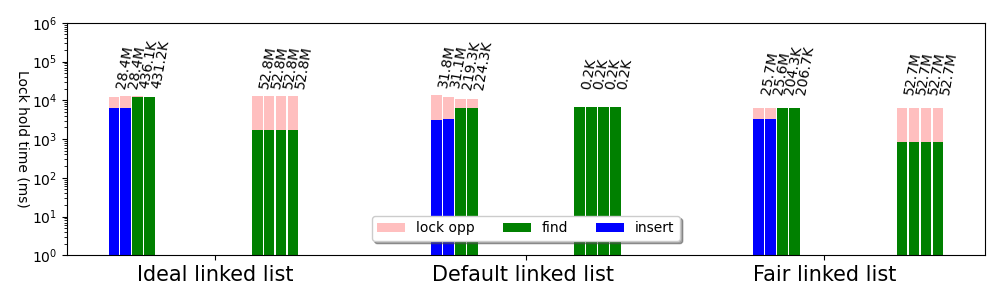
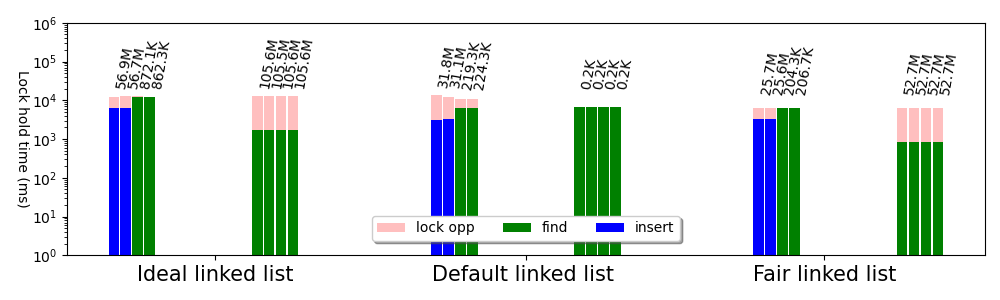
updated graphs

Changed region(s): [[0.093, 0.12, 0.186, 0.3], [0.248, 0.12, 0.31, 0.3]]

diff --git a/generate_performance_graph.py b/generate_performance_graph.py
@@ -141,82 +141,82 @@ o_max = [o_max_4, o_max_8, o_max_10]
 print(o_diff)
 
 
-#ax.axhspan(max_4, min_4, facecolor='b', alpha=0.5)
-#ax.axhspan(min_8, max_8, facecolor='r', alpha=0.5)
-#ax.axhspan(min_10, max_10, facecolor='g', alpha=0.5)
-colours = ['b', 'r', 'g']
-count = 0
-i_max_4 = 0
-i_min_4 = 10000000000000
-i_max_8 = 0
-i_min_8 = 10000000000000
-i_max_10 = 0
-i_min_10 = 10000000000000
-path = "./tables/ns_c_lock_fair_list_tables/"  #FILL THIS IN HERE
-fileCount = 0;
-filename = "performance.csv"
-with open(os.path.join(path, filename), 'r') as file:
-    reader = csv.reader(file)
-    for row in reader:
-        applications = int(row[0])
-        #print(row)
-        #print(row[0])
-        if (applications != 2):
-            throughput = []
-            #print(applications)
-            for i in range(applications):
-                x_val = []
-                y_val = []
-                ratio_max = 0
-                ratio_min = 0
-                #print(row[i+1])
-                values = row[i + 1].split('],')
-#                for i in values:
-                val = values[0].split(',')
-                #print(val)
-                for j in val:
-                    res = j.replace("]", "")
-                    res2 = res.replace("[", "")
-                    y_val.append(int(res2))
-                x_val = [i for i in range(len(val))]
-                #print(x_val)
-                #print(y_val)
-                if (applications == 4):
-                    v_colour = 'b'
-                    if (max(y_val) > i_max_4):
-                        i_max_4 = max(y_val)
-                    if (min(y_val) < i_min_4):
-                        i_min_4 = min(y_val)
-                elif (applications == 8):
-                    v_colour = 'r'
-                    if (max(y_val) > i_max_8):
-                        i_max_8 = max(y_val)
-                    if (min(y_val) < i_min_8):
-                        i_min_8 = min(y_val)
-                elif(applications == 10):
-                    v_colour = 'g'
-                    if (max(y_val) > i_max_10):
-                        i_max_10 = max(y_val)
-                        #print(i_max_10)
-                    if (min(y_val) < i_min_10):
-                        i_min_10 = min(y_val)
-                        #print(i_min_10)
-                count = len(x_val)
-                denom = 4 * applications
-                #ax.plot(x_val, y_val, color=v_colour, label=str(applications))
+# #ax.axhspan(max_4, min_4, facecolor='b', alpha=0.5)
+# #ax.axhspan(min_8, max_8, facecolor='r', alpha=0.5)
+# #ax.axhspan(min_10, max_10, facecolor='g', alpha=0.5)
+# colours = ['b', 'r', 'g']
+# count = 0
+# i_max_4 = 0
+# i_min_4 = 10000000000000
+# i_max_8 = 0
+# i_min_8 = 10000000000000
+# i_max_10 = 0
+# i_min_10 = 10000000000000
+# path = "./tables/ns_c_lock_fair_list_tables/"  #FILL THIS IN HERE
+# fileCount = 0;
+# filename = "performance.csv"
+# with open(os.path.join(path, filename), 'r') as file:
+#     reader = csv.reader(file)
+#     for row in reader:
+#         applications = int(row[0])
+#         #print(row)
+#         #print(row[0])
+#         if (applications != 2):
+#             throughput = []
+#             #print(applications)
+#             for i in range(applications):
+#                 x_val = []
+#                 y_val = []
+#                 ratio_max = 0
+#                 ratio_min = 0
+#                 #print(row[i+1])
+#                 values = row[i + 1].split('],')
+# #                for i in values:
+#                 val = values[0].split(',')
+#                 #print(val)
+#                 for j in val:
+#                     res = j.replace("]", "")
+#                     res2 = res.replace("[", "")
+#                     y_val.append(int(res2))
+#                 x_val = [i for i in range(len(val))]
+#                 #print(x_val)
+#                 #print(y_val)
+#                 if (applications == 4):
+#                     v_colour = 'b'
+#                     if (max(y_val) > i_max_4):
+#                         i_max_4 = max(y_val)
+#                     if (min(y_val) < i_min_4):
+#                         i_min_4 = min(y_val)
+#                 elif (applications == 8):
+#                     v_colour = 'r'
+#                     if (max(y_val) > i_max_8):
+#                         i_max_8 = max(y_val)
+#                     if (min(y_val) < i_min_8):
+#                         i_min_8 = min(y_val)
+#                 elif(applications == 10):
+#                     v_colour = 'g'
+#                     if (max(y_val) > i_max_10):
+#                         i_max_10 = max(y_val)
+#                         #print(i_max_10)
+#                     if (min(y_val) < i_min_10):
+#                         i_min_10 = min(y_val)
+#                         #print(i_min_10)
+#                 count = len(x_val)
+#                 denom = 4 * applications
+#                 #ax.plot(x_val, y_val, color=v_colour, label=str(applications))
 
-i_difference_4 = i_max_4 / i_min_4
-i_diff_8 = i_max_8 / i_min_8
-i_diff_10 = i_max_10 / i_min_10
-#print(i_max_8)
-#print(i_min_8)
-i_diff = [i_difference_4, i_diff_8, i_diff_10]
-i_max = [i_max_4, i_max_8, i_max_10]
-print(i_diff)
+# i_difference_4 = i_max_4 / i_min_4
+# i_diff_8 = i_max_8 / i_min_8
+# i_diff_10 = i_max_10 / i_min_10
+# #print(i_max_8)
+# #print(i_min_8)
+# i_diff = [i_difference_4, i_diff_8, i_diff_10]
+# i_max = [i_max_4, i_max_8, i_max_10]
+# print(i_diff)
 
 print([min_4, min_8, min_10])
 print([o_min_4, o_min_8, o_min_10])
-print([i_min_4, i_min_8, i_min_10])
+#print([i_min_4, i_min_8, i_min_10])
 
 ax.set_ylabel("Max-min throughput ratio", fontsize=15)
 ax.set_xlabel("Number of applications running", fontsize=15)

diff --git a/generate_dynamic_graph.py b/generate_dynamic_graph.py
@@ -5,15 +5,16 @@ import os
 import csv
 import sys
 
-fig, axs = plt.subplots(3, figsize=(12, 6))
+fig, axs = plt.subplots(3, figsize=(16, 12))
 
 path = "./tables/default_fair_list_tables/"  #FILL THIS IN HERE
 fileCount = 0;
 for filename in os.listdir(path):
     #print(filename)
     with open(os.path.join(path, filename), 'r') as file:
-        if (filename == "dynamic_applications.csv"):
+        if (filename == "new_dynamic_applications.csv"):
             applications = 8
+
             count = -1
             colours = ['r', 'g', 'b', 'k', 'r', 'g', 'b', 'k']
             ratio = [25, 50, 75, 100, 25, 50, 75, 100]
@@ -29,23 +30,20 @@ for filename in os.listdir(path):
                 else:
                     count = count + 1
                     type = row[int(0)]
-                    for i in range(16):
-                        stage_1_throughput.append(int(row[int(i + 1)]))
+                    apps = [[0, int(row[1]), int(row[5])], [0, int(row[2]), int(row[6])], [0, int(row[3]), int(row[7]), int(row[15])], [0, int(row[4]), int(row[8]), int(row[16])], [0, int(row[9])], [0, int(row[10])], [0, int(row[11])], [0, int(row[12])]]
                     time_1 = [0, 32, 64, 86]
                     time_2 = [32, 64]
                     time_3 = [0, 32, 64]
+                    
                     for j in range(2):
-                        x_val = [app_thoughput[j], app_thoughput[j], app_thoughput[j]]
-                        axs[count].plot(time_3, x_val, label = str(ratio[j]), color=colours[j])
-
+                        print(apps[j])
+                        axs[count].plot(time_3, apps[j], label = str(ratio[j]), color=colours[j])
 
                     for j in [2, 3]:
-                        x_val = [app_thoughput[j], app_thoughput[j], app_thoughput[j], app_thoughput[j]]
-                        axs[count].plot(time_1, x_val, label = str(ratio[j]), color=colours[j])
+                        axs[count].plot(time_1, apps[j], label = str(ratio[j]), color=colours[j])
 
                     for j in [4, 5, 6, 7]:
-                        x_val = [app_thoughput[j], app_thoughput[j]]
-                        axs[count].plot(time_2, x_val, label = str(ratio[j]), color=colours[j])
+                        axs[count].plot(time_2, apps[j], label = str(ratio[j]), color=colours[j])
 
 
 #ax.set_xticks([0, 25, 50, 75, 100])
@@ -54,16 +52,25 @@ for filename in os.listdir(path):
                     #axs[count].set_ylim(0, 100000)
                     handles, labels = axs[count].get_legend_handles_labels()
 
+                    axs[count].axvline(x = 0, color = 'k', label = 'axvline - full height')
+                    axs[count].text(2, max(apps[0]), 'Four threads start',fontsize=13)
+
+                    axs[count].axvline(x = 32, color = 'k', label = 'axvline - full height')
+                    axs[count].text(32, max(apps[0]), 'Four more threads start', fontsize=13)
+
+                    axs[count].axvline(x = 64, color = 'k', label = 'axvline - full height')
+                    axs[count].text(64, max(apps[0]), 'Six threads stop', fontsize=13)
+        
                     by_label = dict(zip(labels, handles))
 
                     axs[1].legend(by_label.values(), by_label.keys(), loc='upper center', bbox_to_anchor=(1.1, 0.7),
-            title="Insert Ratio", fancybox=True, shadow=True, fontsize=10)
+title="Insert Ratio", fancybox=True, shadow=True, fontsize=10)
 #plt.title("Total lock hold per thread")
 axs[1].set_ylabel("Throughput of application", fontsize=10)#,  yscale = "log")#, #ylim=[1, 10**6])
 axs[2].set_xlabel("Time Running", fontsize=10)
 
 plt.tight_layout()
 
-figName = "./graphs/ns_c_lock_fair_list_graphs/dynamic_applications.png"
+figName = "./graphs/ns_c_lock_fair_list_graphs/new_dynamic_applications.png"
 plt.savefig(figName)          
 plt.close()

diff --git a/generate_list_combined_graphs.py b/generate_list_combined_graphs.py
@@ -11,7 +11,7 @@ fig, ax = plt.subplots(figsize=(10,3))
 count = 0
 final_ratio = []
 v = 0
-jane = 0
+jane = 100
 fileCount = 0;
 rootdir = "./tables/"
 for dir in os.listdir(rootdir):
@@ -130,14 +130,14 @@ for dir in os.listdir(rootdir):
                     #[plt.text(i, 200000000, f'{int(j  / 1000)}K', rotation=45, fontsize=15) for (i, j) in zip(new_find_id, n_ops)]
                     for (i, j) in zip(new_find_id, n_ops):
                         if (j > 1000000):
-                            ax.text(i, max(lock_opp) + 10000, f'{round(float(j  / 2000000), 1)}M', rotation=80, fontsize=10)
+                            ax.text(i, max(lock_opp) + 10000, f'{round(float(j  / 1000000), 1)}M', rotation=80, fontsize=10)
                         else:
-                            ax.text(i, max(lock_opp) + 10000, f'{round(float(j  / 2000), 1)}K', rotation=80, fontsize=10)
+                            ax.text(i, max(lock_opp) + 10000, f'{round(float(j  / 1000), 1)}K', rotation=80, fontsize=10)
                     for (i, j) in zip(new_insert_id, i_n_ops):
                         if (j > 1000000):
-                            ax.text(i, max(i_lock_opp) + 10000, f'{round(float(j  / 2000000), 1)}M', rotation=80, fontsize=10)
+                            ax.text(i, max(i_lock_opp) + 10000, f'{round(float(j  / 1000000), 1)}M', rotation=80, fontsize=10)
                         else:
-                            ax.text(i, max(i_lock_opp) + 10000, f'{round(float(j  / 2000), 1)}K', rotation=80, fontsize=10)
+                            ax.text(i, max(i_lock_opp) + 10000, f'{round(float(j  / 1000), 1)}K', rotation=80, fontsize=10)
 
                     pps1 = ax.bar(new_insert_id, i_lock_opp, align='center', width=0.09, color='r', alpha=0.25)#, label = "insert")
                     pps2 = ax.bar(new_find_id, lock_opp,  width=0.09, color='r', align='center', alpha=0.25, label = "lock opp")
@@ -261,14 +261,14 @@ for dir in os.listdir(rootdir):
                     #[plt.text(i, 200000000, f'{int(j  / 1000)}K', rotation=45, fontsize=15) for (i, j) in zip(new_find_id, n_ops)]
                     for (i, j) in zip(new_find_id, n_ops):
                         if (j > 1000000):
-                            ax.text(i, max(lock_opp) + 10000, f'{round(float(j  / 2000000), 1)}M', rotation=80, fontsize=10)
+                            ax.text(i, max(lock_opp) + 10000, f'{round(float(j  / 1000000), 1)}M', rotation=80, fontsize=10)
                         else:
-                            ax.text(i, max(lock_opp) + 10000, f'{round(float(j  / 2000), 1)}K', rotation=80, fontsize=10)
+                            ax.text(i, max(lock_opp) + 10000, f'{round(float(j  / 1000), 1)}K', rotation=80, fontsize=10)
                     for (i, j) in zip(new_insert_id, i_n_ops):
                         if (j > 1000000):
-                            ax.text(i, max(i_lock_opp) + 10000, f'{round(float(j  / 2000000), 1)}M', rotation=80, fontsize=10)
+                            ax.text(i, max(i_lock_opp) + 10000, f'{round(float(j  / 1000000), 1)}M', rotation=80, fontsize=10)
                         else:
-                            ax.text(i, max(i_lock_opp) + 10000, f'{round(float(j  / 2000), 1)}K', rotation=80, fontsize=10)
+                            ax.text(i, max(i_lock_opp) + 10000, f'{round(float(j  / 1000), 1)}K', rotation=80, fontsize=10)
 
                     pps1 = ax.bar(new_insert_id, i_lock_opp, align='center', width=0.09, color='r', alpha=0.25)#, label = "insert")
                     pps2 = ax.bar(new_find_id, lock_opp,  width=0.09, color='r', align='center', alpha=0.25, label = "lock opp")

diff --git a/generate_total_tables.py b/generate_total_tables.py
@@ -63,7 +63,6 @@ for dir in os.listdir(rootdir):
                         no_ops = int(text[1].split(':')[-1]) #int(find_info(text, 1).lstrip().rstrip())
                         total_time = float(text[2].split(':')[-1]) #find_info(text, 1).lstrip().rstrip()
                         stage_2_throughput[thread_id] += no_ops
-                        print(stage_2_throughput)
                 for t in range(8):
                     text_line = file.readline()
                     # if ((text_line.split(' ')[0] == "Spin_Lock_Opp:") or (not text_line) or (text_line == " ")or (text_line == "\n")):
@@ -80,10 +79,6 @@ for dir in os.listdir(rootdir):
                         total_time = float(text[2].split(':')[-1]) #find_info(text, 1).lstrip().rstrip()
                         stage_3_throughput[thread_id] += no_ops
                     
-                    
-                #print(stage_1_throughput)
-                #print(stage_2_throughput)
-                #print(stage_3_throughput)  
                 final_data.append([type] + stage_1_throughput + stage_2_throughput + stage_3_throughput)
 
         

diff --git a/generate_list_throughput_graphs.py b/generate_list_throughput_graphs.py
@@ -65,9 +65,9 @@ for dir in os.listdir(rootdir):
                                 lock_opp.append(float(row[int(5)])) 
                     new_n_ops = []
                     for i in n_ops:
-                        new_n_ops.append(i/2)
-                        new_n_ops.append(i/2)
-                    new_n_ops.append(n_ops[0]/2)
+                        new_n_ops.append(i)
+                        new_n_ops.append(i)
+                    new_n_ops.append(n_ops[0])
                     print(new_n_ops)
                     count = count + 1
                     ax.plot(rratio, new_n_ops, label = "ideal linked list")
@@ -196,7 +196,7 @@ handles, labels = ax.get_legend_handles_labels()
 
 by_label = dict(zip(labels, handles))
 
-ax.legend(by_label.values(), by_label.keys(), loc='upper center', bbox_to_anchor=(0.2, 0.3),
+ax.legend(by_label.values(), by_label.keys(), loc='upper center', bbox_to_anchor=(0.2, 0.5),
             fancybox=True, shadow=True, fontsize=15)
 #plt.title("Total lock hold per thread")
 plt.tight_layout()
